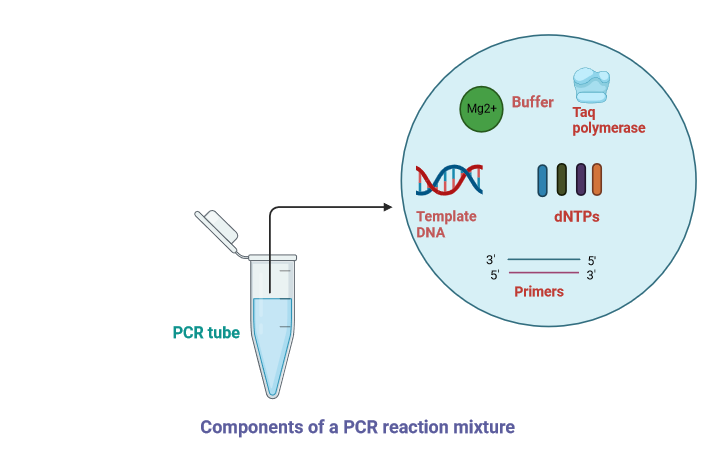
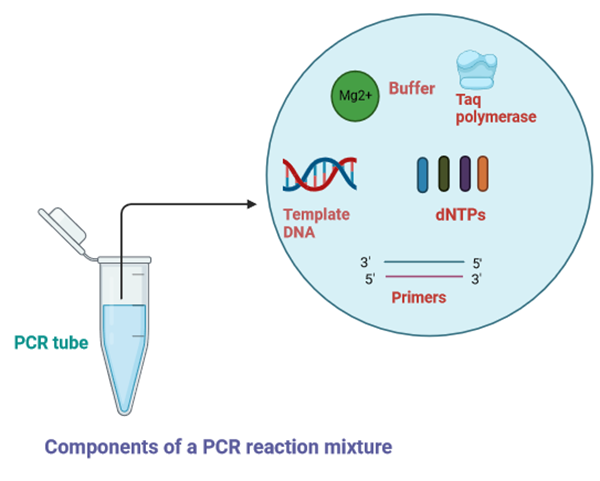
dna pcr

Changed region(s): [[0.21, 0.0, 1.0, 0.7336], [0.0, 0.4279, 0.75, 0.9476]]

diff --git a/experiment/procedure.md b/experiment/procedure.md
@@ -3,9 +3,9 @@
 
 Steps | Action  | Procedure Details| 
 :--|:--|:--|
-<img src="images/Thawing_on_ice.png" class="img-fluid" width="60%"> | Thawing the PCR reaction components on ice |  All the components of the PCR reaction must be thawed and centrifuged before use  |
-<img src="images/tube.png" class="img-fluid" width="60%"> | Preparation of the PCR reaction mix |  The components required for PCR as mentioned before are assembled in a tube and mixed and centrifuged. Bubbles must be avoided in the PCR reaction tube. In order to avoid  non-specific primed synthesis during the assembly of the reaction prior to PCR cycling, all components of the PCR reaction must be assembled on ice and the DNA- Polymerase should be added at last.  |
-<img src="images/Thermal_cycler.jpg" class="img-fluid" width="80%"> | Incubation of the PCR reaction mixture in a thermal cycler |  PCR cycling and running parameters must be set up for efficient amplification. The details steps are described below.|
+<img src="images/Thawing_on_ice.png" class="img-fluid" > | Thawing the PCR reaction components on ice |  All the components of the PCR reaction must be thawed and centrifuged before use  |
+<img src="images/tube.png" class="img-fluid" > | Preparation of the PCR reaction mix |  The components required for PCR as mentioned before are assembled in a tube and mixed and centrifuged. Bubbles must be avoided in the PCR reaction tube. In order to avoid  non-specific primed synthesis during the assembly of the reaction prior to PCR cycling, all components of the PCR reaction must be assembled on ice and the DNA- Polymerase should be added at last.  |
+<img src="images/Thermal_cycler.jpg" class="img-fluid" > | Incubation of the PCR reaction mixture in a thermal cycler |  PCR cycling and running parameters must be set up for efficient amplification. The details steps are described below.|
 
 
 
@@ -20,10 +20,10 @@ If we are assuming that the efficiency of the PCR reaction is perfect, then ther
 The final number of target DNA molecules is Y = X(2<sup>n</sup>) 
 where “X” is the number of  target DNA  at cycle one, “n” is the number of cycles, and “Y” is the final number of target molecules.
 
-<div><img src="images/pcr2.png" class="img-fluid" width="70%">
+<div><img src="images/pcr2.png" class="img-fluid" >
 <p>Fig 1: Schematic representation of the PCR amplification reaction upto cycle 1</p>
 </div>
 
-<div><img src="images/PCR-amplification-reaction.png"  class="img-fluid" width="70%">
+<div><img src="images/PCR-amplification-reaction.png"  class="img-fluid" >
 <p>Fig 2: Schematic representation of the PCR amplification reaction upto cycle 2.</p>
 </div>

diff --git a/experiment/theory.md b/experiment/theory.md
@@ -16,15 +16,15 @@ The basic principle of PCR relies on amplifying a specific DNA sequence into mil
 
 6.	**Buffer:** PCR is carried out in a buffer that provides a suitable chemical environment for activity and stability of DNA polymerase. The buffer pH is usually between 8.0 and 9.5.The salt composition of the buffer differs for different kinds of DNA polymerases.
 
-<img src="images/Components.png" class="img-fluid" width="40%">
+<img src="images/Components.png" class="img-fluid" >
 
 The components required for PCR are assembled in a tube, along with cofactors needed by the enzyme as shown in the figure above, and are put through repeated cycles of heating and cooling in a thermal cycler that allow the amplified DNA to be synthesized.
 
-<img src="images/Thermal_cycler.jpg" class="img-fluid" width="40%">
+<img src="images/Thermal_cycler.jpg" class="img-fluid" >
 
 PCR amplification takes place in a thermal cycler as shown above, which is an instrument that automates temperature cycling and incubation times for PCR.
 
 
-<div><img src="images/pcr1.png" class="img-fluid" width="70%">
+<div><img src="images/pcr1.png" class="img-fluid" >
 <p>Schematic representation of the PCR processes that take place inside a thermal cycler.</p>
 </div>
